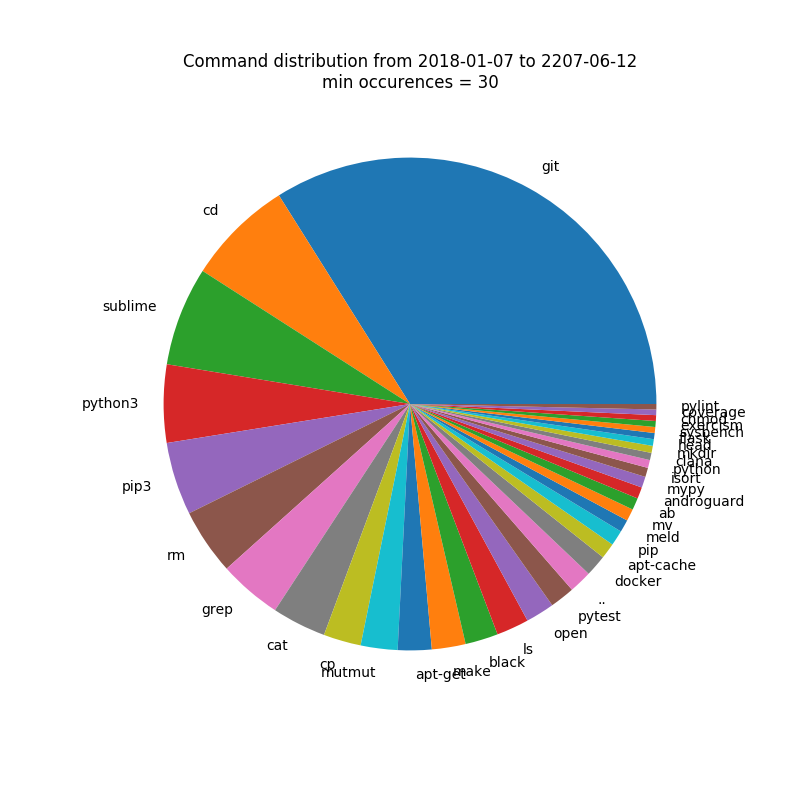
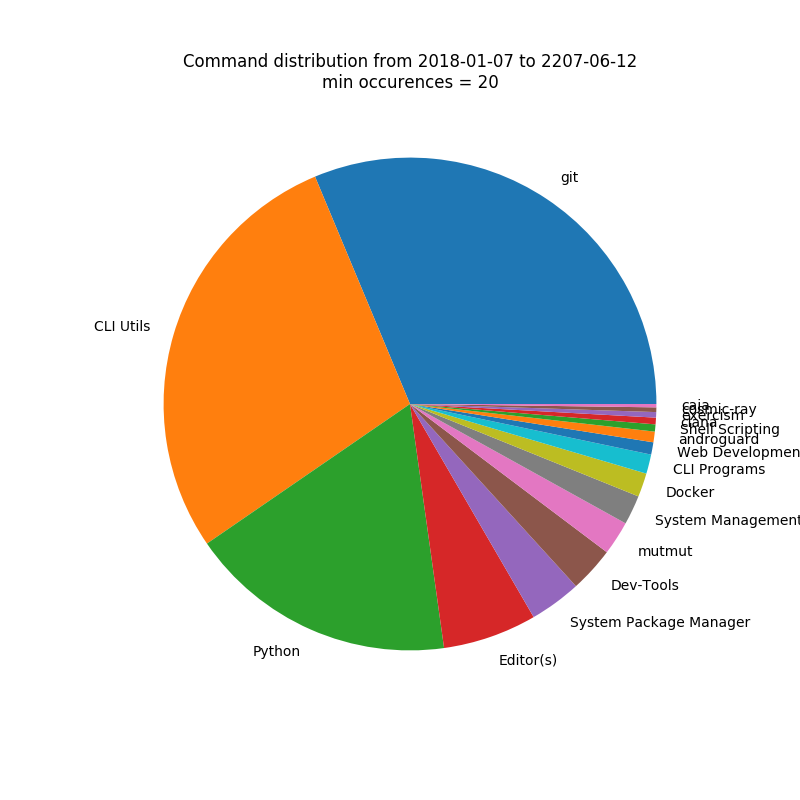
Shell History Analysis: Add grouping

diff --git a/Python/shell-history-analysis/analyze.py b/Python/shell-history-analysis/analyze.py
@@ -9,6 +9,7 @@ import click
 import dateutil.parser
 import matplotlib.pyplot as plt
 import pandas as pd
+import yaml
 
 
 @click.command()
@@ -18,7 +19,7 @@ def cli(filename: str, shell: str):
     main(filename, shell)
 
 
-def main(filename: str, shell: str) -> pd.DataFrame:
+def main(filename: str, shell: str, apply_grouping: bool = True) -> pd.DataFrame:
     with open(filename) as f:
         content = f.read()
     df = extract_command_list(content, shell=shell)
@@ -27,13 +28,22 @@ def main(filename: str, shell: str) -> pd.DataFrame:
     df = prefix_removal(df, prefix="time")
     new = df["cleaned_command"].str.split(" ", expand=True)
     df["base_command"] = new[0]
-    print(df.base_command.value_counts())
+
+    if apply_grouping:
+        with open("grouping.yaml") as f:
+            grouping = yaml.load(f)
+        grouping_t = {}
+        for to, from_list in grouping.items():
+            for from_str in from_list:
+                grouping_t[from_str] = to
+        df["base_command"] = df["base_command"].map(lambda n: grouping_t.get(n, n))
+
     counts = df.base_command.value_counts()
-    print(counts)
-    min_occurences = 30
+    min_occurences = 20
     if max(counts) < min_occurences:
         min_occurences = max(max(counts) - 10, min(counts))
     counts = counts[counts >= min_occurences]
+    print(counts)
     min_date = min(df["date"])
     max_date = max(df["date"])
     plt.title(
